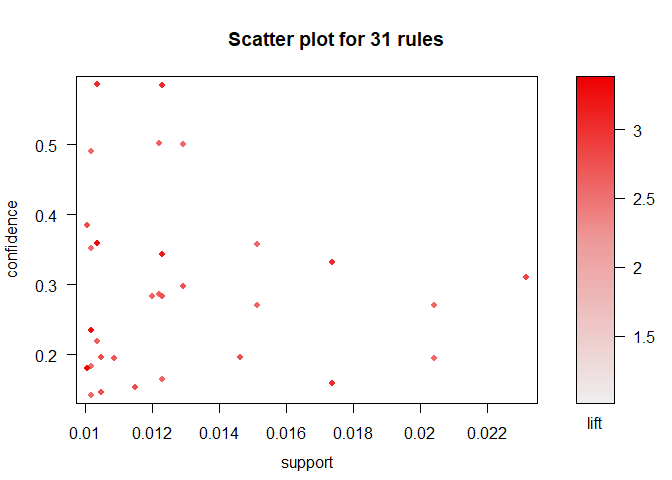
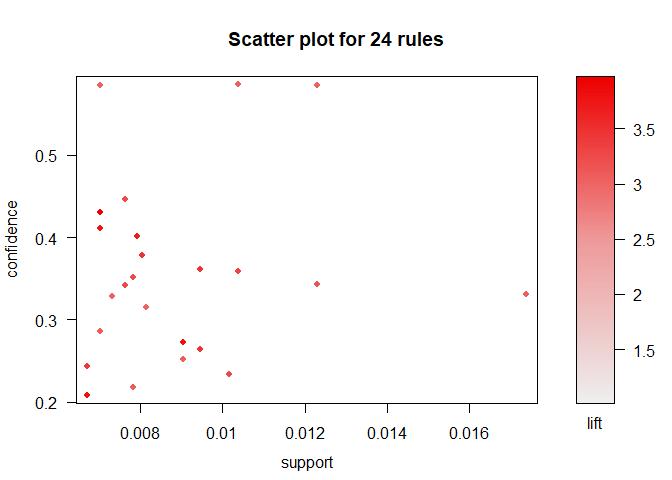
added analysis

diff --git a/association_analysis.md b/association_analysis.md
@@ -57,82 +57,79 @@ pattern.
 
 Under these conditions, 500 rules are produced. The frequent single
 items above are still overly present in the rules, even with the
-restriction on
-    lift.
-
-    ## To reduce overplotting, jitter is added! Use jitter = 0 to prevent jitter.
+restriction on lift.
 
 ![](association_analysis_files/figure-gfm/unnamed-chunk-6-1.png)<!-- -->
 
-The threshold with be raised, as will it for confidence, to prune the
-rules.
+The threshold will be raised to prune the rules.
 
 ![](association_analysis_files/figure-gfm/unnamed-chunk-7-1.png)<!-- -->
 
 Now there are about 30. As displayed above, the most significant rules
 have been picked. These include many larger frequent itemsets with a few
 small frequent
-itemsets.
+    itemsets.
 
-``` r
-#kable(arules::inspect(better_rules), format = "markdown", row.names = FALSE)
-arules::inspect(better_rules)
-```
-
-    ##      lhs                     rhs                     support confidence     lift count
-    ## [1]  {beef}               => {root vegetables}    0.01738688  0.3313953 3.040367   171
-    ## [2]  {root vegetables}    => {beef}               0.01738688  0.1595149 3.040367   171
-    ## [3]  {curd}               => {whipped/sour cream} 0.01047280  0.1965649 2.742150   103
-    ## [4]  {whipped/sour cream} => {curd}               0.01047280  0.1460993 2.742150   103
-    ## [5]  {butter}             => {whipped/sour cream} 0.01016777  0.1834862 2.559698   100
-    ## [6]  {whipped/sour cream} => {butter}             0.01016777  0.1418440 2.559698   100
-    ## [7]  {pip fruit}          => {tropical fruit}     0.02043721  0.2701613 2.574648   201
-    ## [8]  {tropical fruit}     => {pip fruit}          0.02043721  0.1947674 2.574648   201
-    ## [9]  {curd,                                                                           
-    ##       whole milk}         => {yogurt}             0.01006609  0.3852140 2.761356    99
-    ## [10] {whole milk,                                                                     
-    ##       yogurt}             => {curd}               0.01006609  0.1796733 3.372304    99
-    ## [11] {other vegetables,                                                               
-    ##       whole milk}         => {butter}             0.01148958  0.1535326 2.770630   113
-    ## [12] {other vegetables,                                                               
-    ##       whole milk}         => {domestic eggs}      0.01230300  0.1644022 2.591178   121
-    ## [13] {whipped/sour cream,                                                             
-    ##       yogurt}             => {other vegetables}   0.01016777  0.4901961 2.533410   100
-    ## [14] {other vegetables,                                                               
-    ##       whipped/sour cream} => {yogurt}             0.01016777  0.3521127 2.524073   100
-    ## [15] {other vegetables,                                                               
-    ##       yogurt}             => {whipped/sour cream} 0.01016777  0.2341920 3.267062   100
-    ## [16] {whole milk,                                                                     
-    ##       yogurt}             => {whipped/sour cream} 0.01087951  0.1941924 2.709053   107
-    ## [17] {other vegetables,                                                               
-    ##       whole milk}         => {whipped/sour cream} 0.01464159  0.1956522 2.729417   144
-    ## [18] {citrus fruit,                                                                   
-    ##       root vegetables}    => {other vegetables}   0.01037112  0.5862069 3.029608   102
-    ## [19] {citrus fruit,                                                                   
-    ##       other vegetables}   => {root vegetables}    0.01037112  0.3591549 3.295045   102
-    ## [20] {other vegetables,                                                               
-    ##       root vegetables}    => {citrus fruit}       0.01037112  0.2188841 2.644626   102
-    ## [21] {root vegetables,                                                                
-    ##       tropical fruit}     => {other vegetables}   0.01230300  0.5845411 3.020999   121
-    ## [22] {other vegetables,                                                               
-    ##       tropical fruit}     => {root vegetables}    0.01230300  0.3427762 3.144780   121
-    ## [23] {tropical fruit,                                                                 
-    ##       whole milk}         => {root vegetables}    0.01199797  0.2836538 2.602365   118
-    ## [24] {other vegetables,                                                               
-    ##       yogurt}             => {tropical fruit}     0.01230300  0.2833724 2.700550   121
-    ## [25] {tropical fruit,                                                                 
-    ##       whole milk}         => {yogurt}             0.01514997  0.3581731 2.567516   149
-    ## [26] {whole milk,                                                                     
-    ##       yogurt}             => {tropical fruit}     0.01514997  0.2704174 2.577089   149
-    ## [27] {root vegetables,                                                                
-    ##       yogurt}             => {other vegetables}   0.01291307  0.5000000 2.584078   127
-    ## [28] {other vegetables,                                                               
-    ##       yogurt}             => {root vegetables}    0.01291307  0.2974239 2.728698   127
-    ## [29] {rolls/buns,                                                                     
-    ##       root vegetables}    => {other vegetables}   0.01220132  0.5020921 2.594890   120
-    ## [30] {other vegetables,                                                               
-    ##       rolls/buns}         => {root vegetables}    0.01220132  0.2863962 2.627525   120
-    ## [31] {other vegetables,                                                               
-    ##       whole milk}         => {root vegetables}    0.02318251  0.3097826 2.842082   228
+    ##      lhs                     rhs                      support confidence     lift count
+    ## [1]  {herbs}              => {root vegetables}    0.007015760  0.4312500 3.956477    69
+    ## [2]  {sliced cheese}      => {sausage}            0.007015760  0.2863071 3.047435    69
+    ## [3]  {berries}            => {whipped/sour cream} 0.009049314  0.2721713 3.796886    89
+    ## [4]  {beef}               => {root vegetables}    0.017386884  0.3313953 3.040367   171
+    ## [5]  {beef,                                                                            
+    ##       other vegetables}   => {root vegetables}    0.007930859  0.4020619 3.688692    78
+    ## [6]  {beef,                                                                            
+    ##       whole milk}         => {root vegetables}    0.008032537  0.3779904 3.467851    79
+    ## [7]  {butter,                                                                          
+    ##       whole milk}         => {whipped/sour cream} 0.006710727  0.2435424 3.397503    66
+    ## [8]  {whipped/sour cream,                                                              
+    ##       whole milk}         => {butter}             0.006710727  0.2082019 3.757185    66
+    ## [9]  {domestic eggs,                                                                   
+    ##       other vegetables}   => {root vegetables}    0.007320793  0.3287671 3.016254    72
+    ## [10] {other vegetables,                                                                
+    ##       tropical fruit}     => {whipped/sour cream} 0.007829181  0.2181303 3.042995    77
+    ## [11] {other vegetables,                                                                
+    ##       yogurt}             => {whipped/sour cream} 0.010167768  0.2341920 3.267062   100
+    ## [12] {other vegetables,                                                                
+    ##       pip fruit}          => {tropical fruit}     0.009456024  0.3618677 3.448613    93
+    ## [13] {other vegetables,                                                                
+    ##       tropical fruit}     => {pip fruit}          0.009456024  0.2634561 3.482649    93
+    ## [14] {other vegetables,                                                                
+    ##       tropical fruit}     => {citrus fruit}       0.009049314  0.2521246 3.046248    89
+    ## [15] {citrus fruit,                                                                    
+    ##       root vegetables}    => {other vegetables}   0.010371124  0.5862069 3.029608   102
+    ## [16] {citrus fruit,                                                                    
+    ##       other vegetables}   => {root vegetables}    0.010371124  0.3591549 3.295045   102
+    ## [17] {root vegetables,                                                                 
+    ##       yogurt}             => {tropical fruit}     0.008134215  0.3149606 3.001587    80
+    ## [18] {root vegetables,                                                                 
+    ##       tropical fruit}     => {other vegetables}   0.012302999  0.5845411 3.020999   121
+    ## [19] {other vegetables,                                                                
+    ##       tropical fruit}     => {root vegetables}    0.012302999  0.3427762 3.144780   121
+    ## [20] {root vegetables,                                                                 
+    ##       tropical fruit,                                                                  
+    ##       whole milk}         => {other vegetables}   0.007015760  0.5847458 3.022057    69
+    ## [21] {other vegetables,                                                                
+    ##       tropical fruit,                                                                  
+    ##       whole milk}         => {root vegetables}    0.007015760  0.4107143 3.768074    69
+    ## [22] {other vegetables,                                                                
+    ##       tropical fruit,                                                                  
+    ##       whole milk}         => {yogurt}             0.007625826  0.4464286 3.200164    75
+    ## [23] {other vegetables,                                                                
+    ##       whole milk,                                                                      
+    ##       yogurt}             => {tropical fruit}     0.007625826  0.3424658 3.263712    75
+    ## [24] {other vegetables,                                                                
+    ##       whole milk,                                                                      
+    ##       yogurt}             => {root vegetables}    0.007829181  0.3515982 3.225716    77
 
 ## Analysis
+
+Under the above conditions, an even balance of complex and simple rules
+are produced. The common items still apear in many of the rules, but
+with the restrictions on lift, we can confidently say that the rules
+indicate a significant tendency for them to appear in those itemsets.
+Some of the rules also exist in both directions with high confidence,
+showing that the correlation is mutual.
+
+Objectively, we can say that these rules are superior by the high
+threshold for lift. Subjectively, many of them are sensible, like the
+correlations between herbs, fruits, and vegetables or butter and milk.
